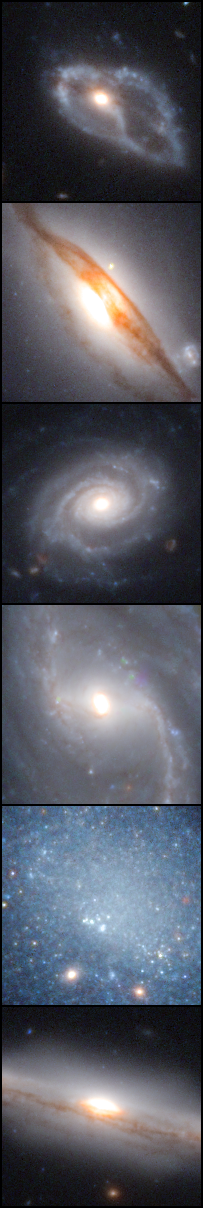
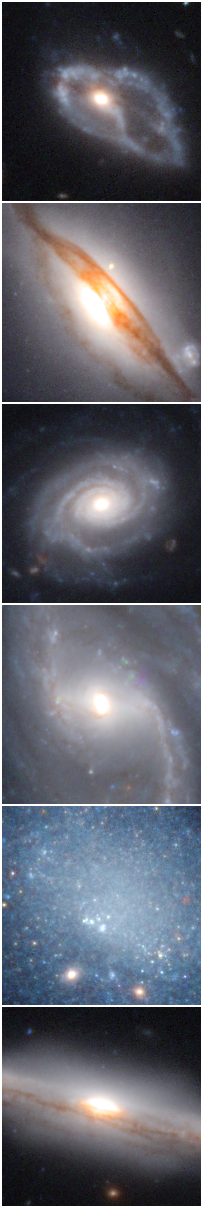
DOC: Make home collage white-bordered

Changed region(s): [[0.9754, 0.0, 1.0, 1.0], [0.0, 0.0, 0.0296, 1.0]]

diff --git a/docs/source/conf.py b/docs/source/conf.py
@@ -93,7 +93,7 @@ html_static_path = ["_static"]
 templates_path = ["_templates"]
 
 html_logo = "_static/logo.png"  # FIXME same as favicon with this theme
-html_title = _version.__title__ + " v" + _version.__version__
+html_title = _version.__title__ + " " + _version.__version__
 # html_favicon = "favicon.png"
 html_css_files = ["figures.css"]
 
@@ -144,7 +144,7 @@ plantuml_output_format = "svg"
 
 html_theme_options = {
     "show_prev_next": True,
-    "awesome_external_links": True,
+    "awesome_external_links": False,
     "main_nav_links": {
         "News": "news",
         "User guide": "index",

diff --git a/src/azulero/_version.py b/src/azulero/_version.py
@@ -8,7 +8,7 @@ _split_every_other_comma = lambda text: [
 
 __name_soft__ = pkg_metadata.get("name", "unknown")
 __version__ = pkg_metadata.get("version", "0.0.0")
-__title__ = pkg_metadata.get("name", "unknown")
+__title__ = __name_soft__.capitalize()
 __description__ = pkg_metadata.get("summary", "")
 __url__ = pkg_metadata.get("project-url", "").split(", ")[-1]
 __author__ = _split_every_other_comma(pkg_metadata.get("author", ""))
